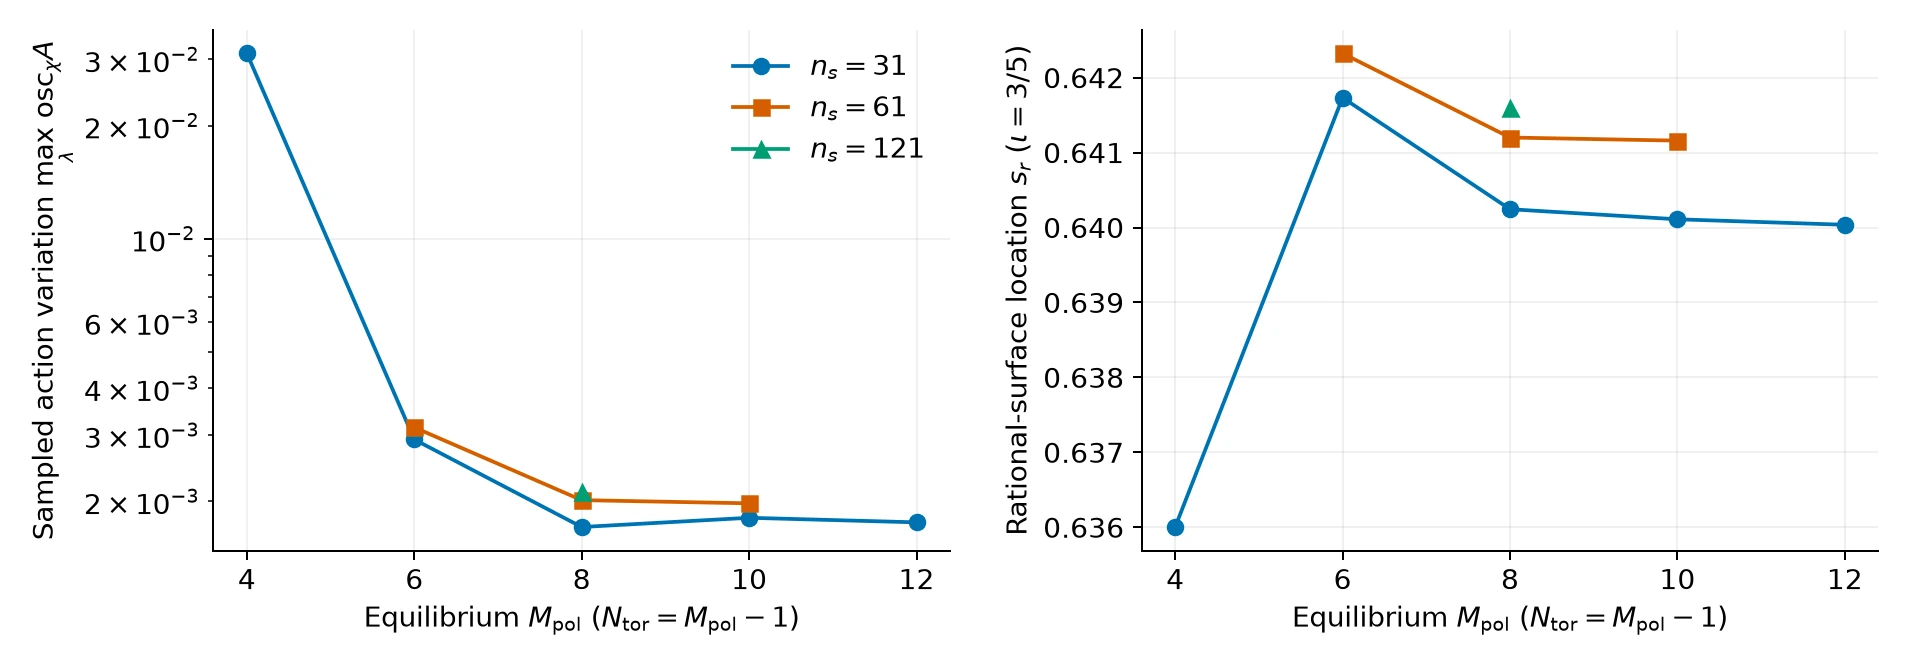
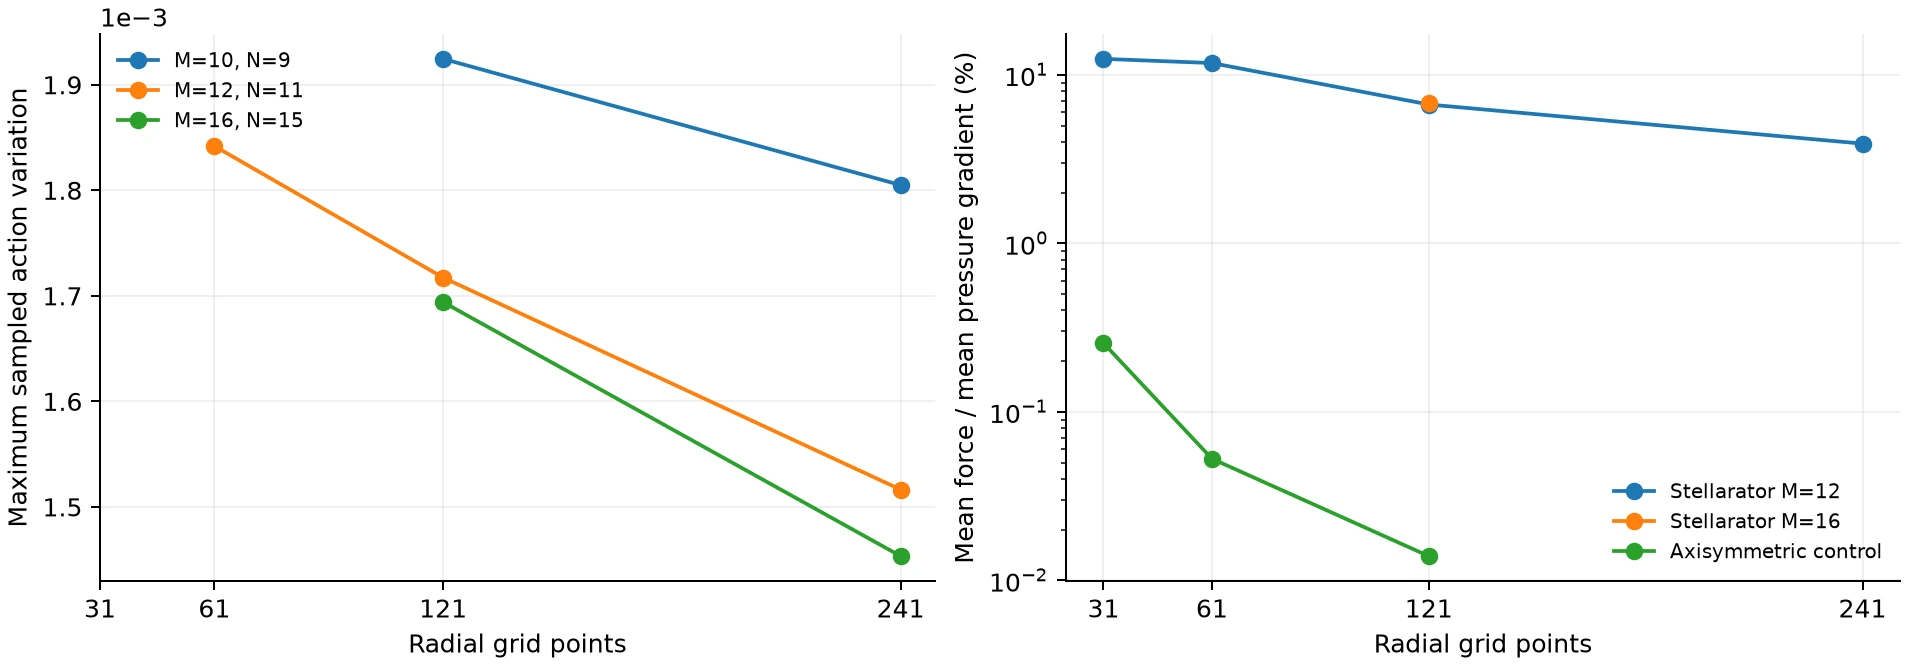
Extend cyclometry validation with joint equilibrium refinement

diff --git a/docs/_static/figures/sources/make_cyclometry_figures.py b/docs/_static/figures/sources/make_cyclometry_figures.py
@@ -156,6 +156,34 @@ def render_convergence(rows):
     return fig
 
 
+def render_joint_refinement(data):
+    """Separate equilibrium and continuous-field resolution diagnostics."""
+    with plt.rc_context({'font.family': 'DejaVu Sans', 'font.size': 10,
+                         'axes.spines.top': False, 'axes.spines.right': False}):
+        fig, axes = plt.subplots(1, 2, figsize=(10.6, 3.7), layout='constrained')
+        for m in (10, 12, 16):
+            rows = sorted((r for r in data['action_rows'] if r['mpol'] == m),
+                          key=lambda r: r['ns'])
+            axes[0].plot([r['ns'] for r in rows], [r['action_osc'] for r in rows],
+                         'o-', label=f'M={m}, N={m-1}')
+        for family, label in [('stellarator12', 'Stellarator M=12'),
+                              ('stellarator16', 'Stellarator M=16'),
+                              ('axisymmetric', 'Axisymmetric control')]:
+            rows = sorted((r for r in data['force_rows'] if r['family'] == family),
+                          key=lambda r: r['ns'])
+            axes[1].semilogy([r['ns'] for r in rows],
+                            [100*r['relative_pressure'] for r in rows], 'o-', label=label)
+        axes[0].set_ylabel('Maximum sampled action variation')
+        axes[0].ticklabel_format(axis='y', style='sci', scilimits=(0, 0))
+        axes[1].set_ylabel('Mean force / mean pressure gradient (%)')
+        for ax in axes:
+            ax.set_xlabel('Radial grid points')
+            ax.set_xticks([31, 61, 121, 241])
+            ax.grid(alpha=.18)
+            ax.legend(frameon=False, fontsize=8)
+    return fig
+
+
 def main():
     parser = argparse.ArgumentParser(description=__doc__)
     here = Path(__file__).resolve().parent
@@ -196,7 +224,9 @@ def main():
                 fig.savefig(path, dpi=args.dpi, bbox_inches=Bbox.from_extents(.15, .70, 9.3, 5.6), **options)
                 print(path)
             plt.close(fig)
-        fig = render_convergence(metadata['spectral_refinement']['rows'])
+        fig = (render_joint_refinement(metadata['joint_refinement'])
+               if 'joint_refinement' in metadata
+               else render_convergence(metadata['spectral_refinement']['rows']))
         for ext in args.format:
             options = {'pil_kwargs': {'quality': 90, 'method': 6}} if ext == 'webp' else {}
             if ext == 'pdf':

diff --git a/README.md b/README.md
@@ -516,15 +516,21 @@ energy error; alpha classification and full-field trajectory validation remain o
 
 ![Fixed-boundary equilibrium resolution study](docs/_static/figures/readme_cyclometry_convergence.webp)
 
-**Resolution matters.** With the boundary, profiles and flux unchanged, increasing
-(Mpol, Ntor) from (4, 3) to (12, 11) at 31 radial points changes the sampled normalized
-action variation from 0.03115 to 0.001759. This is a discretization effect, not an
-optimization gain. At (8, 7), increasing radial points from 61 to 121 still changes it
-by 4.8%; two cold-start checks differ from warm starts by up to 2.2%.
-Tightening both high-mode states to 10⁻¹⁴ leaves a 1.9% action difference.
-The plot uses Boozer bounds 16/16, fixed B★=3 T, 41 pitches through μB★/E=0.95,
-and 128×2048 closed-transit quadrature. All discrete force residuals are below 10⁻¹²;
-that tolerance does not establish continuum field accuracy or physical island widths.
+**Resolution matters.** Earlier angular refinement at 31 radial points changed
+sampled action variation from 0.03115 at (Mpol,Ntor)=(4,3) to 0.001759 at (12,11).
+That was a discretization effect, not an optimization gain. The plot extends the
+study with joint radial/angular refinement, fixed B★=3 T, 41 pitches through
+μB★/E=0.95, and 128×2048 transit quadrature.
+
+**Continuous-field checks.** At (Mpol, Ntor)=(16,15), increasing radial points
+from 121 to 241 reduces the maximum sampled action variation by 14.2%. At 241
+points, Boozer 20/20→24/24 changes that variation by only 0.030%. The left panel fixes the physical inputs and solver tolerance
+10⁻¹³. The right evaluates curl(B)/μ₀ × B − ∇p in the native continuous field,
+using volume-weighted mean magnitudes on s∈[0.45,0.85] and quadrature split at
+radial spline knots. The separate axisymmetric control converges much faster.
+At 64 identical physical points, the (16,15) radial refinement changes B by
+0.0166% RMS but its Cartesian derivative by 19.8% RMS. Small field-strength
+errors and solver residuals therefore do not establish orbit-model accuracy.
 
 The kernels pass 69 focused tests. The public `frozen_reference` option now keeps
 values, gradients and materialized equilibria on one discrete family. Its complete
